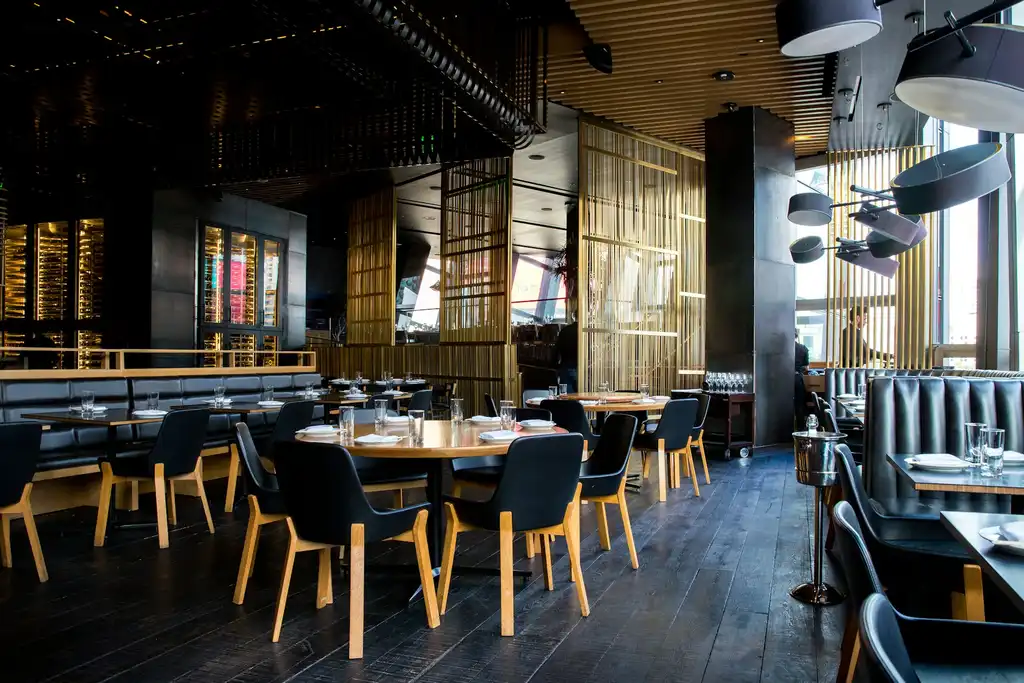
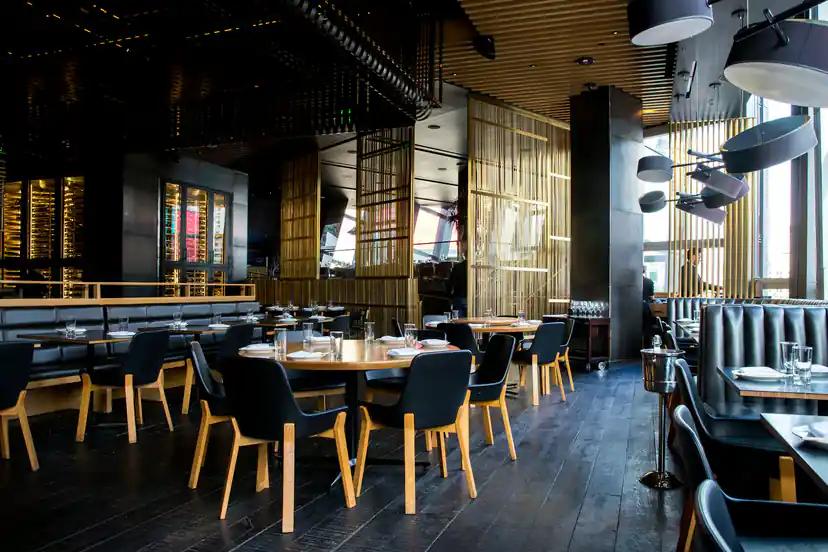
Update Next.js configuration to allow specific local IPs for development; optimize hero image processing with adjusted quality settings; replace LazyProjects component with Projects in the homepage; enhance header component with mobile menu support; refine layout styles for better overflow handling.

diff --git a/src/components/layout/header.tsx b/src/components/layout/header.tsx
@@ -5,6 +5,7 @@ import { usePathname } from "next/navigation";
 import { Menu, Phone, X } from "lucide-react";
 import { BrandLogo } from "@/components/brand-logo";
 import { useEffect, useState, type MouseEvent } from "react";
+import { createPortal } from "react-dom";
 import { siteContent } from "@/content/site";
 import { navLinks } from "@/config/navigation";
 import { telHref } from "@/lib/contact-links";
@@ -40,83 +41,97 @@ export function Header() {
     }
   };
 
-  return (
-    <header
-      className={cn(
-        "fixed inset-x-0 top-0 z-50 overflow-visible transition-all duration-500",
-        scrolled
-          ? "border-b border-border/60 bg-cream py-3 shadow-sm"
-          : "bg-cream/95 py-5",
-      )}
-    >
-      <div className="mx-auto flex max-w-7xl items-center justify-between px-6 lg:px-8">
-        <Link
-          href="/"
-          onClick={handleLogoClick}
-          className="group relative z-10 flex h-12 w-[150px] items-center overflow-visible sm:h-14 sm:w-[180px] lg:h-16 lg:w-[225px]"
-        >
-          <BrandLogo className="transition-opacity group-hover:opacity-90" />
-          <span className="sr-only">{brand.name}</span>
-        </Link>
-
-        <nav className="hidden items-center gap-8 md:flex">
-          {navLinks.map((link) => (
-            <a
-              key={link.href}
-              href={link.href}
-              className="text-sm font-medium text-muted transition-colors hover:text-accent"
-            >
-              {link.label}
-            </a>
-          ))}
-        </nav>
-
-        <div className="relative z-50 flex items-center gap-3">
+  const mobileMenu =
+    open &&
+    typeof document !== "undefined" &&
+    createPortal(
+      <div className="fixed inset-0 z-[150] bg-accent-soft/70 md:hidden">
+        <button
+          type="button"
+          className="absolute inset-0"
+          aria-label="Menüyü kapat"
+          onClick={() => setOpen(false)}
+        />
+        <nav className="absolute inset-x-4 top-20 rounded-2xl border border-border bg-cream p-6 shadow-2xl">
+          <ul className="flex flex-col gap-1">
+            {navLinks.map((link) => (
+              <li key={link.href}>
+                <a
+                  href={link.href}
+                  onClick={() => setOpen(false)}
+                  className="block rounded-xl px-4 py-3 text-lg font-medium text-foreground transition-colors hover:bg-accent-soft/50"
+                >
+                  {link.label}
+                </a>
+              </li>
+            ))}
+          </ul>
           <a
             href={telHref(contact.phone)}
-            className="hidden items-center gap-2 rounded-full bg-accent px-5 py-2.5 text-sm font-semibold text-cream transition-all hover:bg-accent-hover sm:inline-flex"
+            className="mt-4 flex w-full items-center justify-center gap-2 rounded-full bg-accent py-3.5 text-sm font-semibold text-cream hover:bg-accent-hover"
           >
-            <Phone className="h-4 w-4" strokeWidth={2} />
-            Ara
+            <Phone className="h-4 w-4" />
+            {contact.phone}
           </a>
+        </nav>
+      </div>,
+      document.body,
+    );
 
-          <button
-            type="button"
-            onClick={() => setOpen(!open)}
-            className="relative z-50 inline-flex h-11 w-11 items-center justify-center rounded-full border border-border bg-cream text-foreground md:hidden"
-            aria-label={open ? "Menüyü kapat" : "Menüyü aç"}
+  return (
+    <>
+      <header
+        className={cn(
+          "fixed inset-x-0 top-0 z-[100] transition-all duration-500",
+          scrolled
+            ? "border-b border-border/60 bg-cream py-3 shadow-sm"
+            : "bg-cream/95 py-5",
+        )}
+      >
+        <div className="mx-auto flex max-w-7xl items-center justify-between gap-3 px-6 lg:px-8">
+          <Link
+            href="/"
+            onClick={handleLogoClick}
+            className="group relative flex h-12 w-[150px] shrink-0 items-center overflow-hidden sm:h-14 sm:w-[180px] md:overflow-visible lg:h-16 lg:w-[225px]"
           >
-            {open ? <X className="h-5 w-5" /> : <Menu className="h-5 w-5" />}
-          </button>
-        </div>
-      </div>
+            <BrandLogo className="transition-opacity group-hover:opacity-90" />
+            <span className="sr-only">{brand.name}</span>
+          </Link>
 
-      {open && (
-        <div className="fixed inset-0 top-0 z-40 bg-accent-soft/70 md:hidden">
-          <nav className="absolute inset-x-4 top-20 rounded-2xl border border-border bg-cream p-6 shadow-2xl">
-            <ul className="flex flex-col gap-1">
-              {navLinks.map((link) => (
-                <li key={link.href}>
-                  <a
-                    href={link.href}
-                    onClick={() => setOpen(false)}
-                    className="block rounded-xl px-4 py-3 text-lg font-medium text-foreground transition-colors hover:bg-accent-soft/50"
-                  >
-                    {link.label}
-                  </a>
-                </li>
-              ))}
-            </ul>
+          <nav className="hidden items-center gap-8 md:flex">
+            {navLinks.map((link) => (
+              <a
+                key={link.href}
+                href={link.href}
+                className="text-sm font-medium text-muted transition-colors hover:text-accent"
+              >
+                {link.label}
+              </a>
+            ))}
+          </nav>
+
+          <div className="relative z-[200] flex shrink-0 items-center gap-3">
             <a
               href={telHref(contact.phone)}
-              className="mt-4 flex w-full items-center justify-center gap-2 rounded-full bg-accent py-3.5 text-sm font-semibold text-cream hover:bg-accent-hover"
+              className="hidden items-center gap-2 rounded-full bg-accent px-5 py-2.5 text-sm font-semibold text-cream transition-all hover:bg-accent-hover sm:inline-flex"
             >
-              <Phone className="h-4 w-4" />
-              {contact.phone}
+              <Phone className="h-4 w-4" strokeWidth={2} />
+              Ara
             </a>
-          </nav>
+
+            <button
+              type="button"
+              onClick={() => setOpen((current) => !current)}
+              className="inline-flex h-11 w-11 shrink-0 touch-manipulation items-center justify-center rounded-full border border-border bg-cream text-foreground md:hidden"
+              aria-label={open ? "Menüyü kapat" : "Menüyü aç"}
+              aria-expanded={open}
+            >
+              {open ? <X className="h-5 w-5" /> : <Menu className="h-5 w-5" />}
+            </button>
+          </div>
         </div>
-      )}
-    </header>
+      </header>
+      {mobileMenu}
+    </>
   );
 }

diff --git a/src/app/layout.tsx b/src/app/layout.tsx
@@ -36,9 +36,9 @@ export default function RootLayout({
   return (
     <html
       lang="tr"
-      className={`${playfair.variable} ${inter.variable} h-full scroll-smooth antialiased overflow-x-hidden`}
+      className={`${playfair.variable} ${inter.variable} h-full scroll-smooth antialiased overflow-x-clip`}
     >
-      <body className="min-h-full bg-background text-foreground overflow-x-hidden">
+      <body className="min-h-full bg-background text-foreground">
         <JsonLd data={buildJsonLd()} />
         <Header />
         {children}

diff --git a/src/app/page.tsx b/src/app/page.tsx
@@ -3,7 +3,7 @@ import { About } from "@/components/sections/about";
 import { Cta } from "@/components/sections/cta";
 import { Hero } from "@/components/sections/hero";
 import { Process } from "@/components/sections/process";
-import { LazyProjects } from "@/components/sections/lazy-projects";
+import { Projects } from "@/components/sections/projects";
 import { References } from "@/components/sections/references";
 import { createPageMetadata } from "@/lib/seo";
 
@@ -15,7 +15,7 @@ export default function Home() {
       <Hero />
       <About />
       <Process />
-      <LazyProjects />
+      <Projects />
       <References />
       <Cta />
     </main>

diff --git a/next.config.ts b/next.config.ts
@@ -8,11 +8,14 @@ const polyfillAlias = {
 } as const;
 
 const nextConfig: NextConfig = {
+  // Telefondan yerel ağ IP'si ile test için (dev modunda JS/hydration çalışsın)
+  allowedDevOrigins: ["192.168.1.35", "172.20.208.1"],
   experimental: {
     inlineCss: true,
     cssChunking: false,
   },
   images: {
+    qualities: [50, 75],
     remotePatterns: [
       {
         protocol: "https",

diff --git a/src/components/sections/hero.tsx b/src/components/sections/hero.tsx
@@ -17,8 +17,9 @@ export function Hero() {
           alt="Şık restoran iç mekânı"
           fill
           priority
+          quality={50}
           className="object-cover object-center opacity-90"
-          sizes="100vw"
+          sizes="(max-width: 768px) 100vw, (max-width: 1280px) 90vw, 1280px"
         />
         <div className="absolute inset-0 bg-gradient-to-r from-cream/95 via-cream/80 to-cream/40" />
         <div className="absolute inset-0 bg-gradient-to-t from-cream via-cream/70 to-transparent" />

diff --git a/src/components/sections/projects.tsx b/src/components/sections/projects.tsx
@@ -123,7 +123,7 @@ export function Projects() {
   const closeModal = useCallback(() => setActiveProject(null), []);
 
   return (
-    <section className="bg-background pt-10 pb-14 sm:pt-12 sm:pb-16 lg:pt-16 lg:pb-16">
+    <section id="projeler" className="scroll-mt-24 bg-background pt-10 pb-14 sm:pt-12 sm:pb-16 lg:pt-16 lg:pb-16">
       <div className="mx-auto max-w-7xl px-6 lg:px-8">
         <SectionHeading
           label="Projeler"